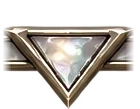
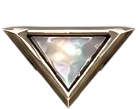
Skins: the moving cards sit in a still view cut to the inside of the frame (nothing shows past the side brackets while rolling); pointers cut by their triangle shape; Void frame redone with a channel where dark matter flows

Changed region(s): [[0.7143, 0.2477, 0.9714, 0.6606], [0.0, 0.2477, 0.2571, 0.6606]]

diff --git a/ui/app.css b/ui/app.css
@@ -419,6 +419,8 @@ input[type=range]::-webkit-slider-thumb { -webkit-appearance: none; width: 18px;
 .strip::before, .strip::after { content: ""; position: absolute; top: 0; bottom: 0; width: 180px; z-index: 3; pointer-events: none; }
 .strip::before { left: 0; background: linear-gradient(90deg, rgba(var(--bg0-rgb), .96), transparent); }
 .strip::after { right: 0; background: linear-gradient(270deg, rgba(var(--bg0-rgb), .96), transparent); }
+/* the moving cards sit in a still view: a skin cuts it to the inside of its frame (the cards never show around it) */
+.strip-view, .gs-view { position: absolute; inset: 0; }
 .strip-track { position: absolute; top: 18px; left: 0; display: flex; gap: 12px; will-change: transform; }
 .strip.idle .strip-track { animation: drift 160s linear infinite; }
 .strip.idle .scard { filter: brightness(.5) saturate(.75); }
@@ -2011,9 +2013,9 @@ img.ring-master { box-shadow: 0 0 10px rgba(255, 211, 107, .75); }
   --frame: url("hud/prism_frame.webp"); --frame-glow: url("hud/prism_frame_glow.webp"); --ptr-t: url("hud/prism_ptr_t.webp"); --ptr-t-glow: url("hud/prism_ptr_t_glow.webp"); --ptr-b: url("hud/prism_ptr_b.webp"); --ptr-b-glow: url("hud/prism_ptr_b_glow.webp"); }
 :root[data-roulette="prism"] .gs-strip { --k: 0.235; }
 :root[data-roulette="void"] .strip-hud { display: block; }
-:root[data-roulette="void"] :is(.strip, .gs-strip) { --edge-t: 27; --edge-b: 29; --edge-s: 3; --k: 0.5; --top: 64; --bottom: 66; --left: 90; --right: 85; --pw: 132; --pth: 97; --pbh: 107;
+:root[data-roulette="void"] :is(.strip, .gs-strip) { --edge-t: 43; --edge-b: 45; --edge-s: 5; --k: 0.357; --top: 98; --bottom: 102; --left: 116; --right: 113; --pw: 184; --pth: 134; --pbh: 148;
   --frame: url("hud/void_frame.webp"); --frame-glow: url("hud/void_frame_glow.webp"); --ptr-t: url("hud/void_ptr_t.webp"); --ptr-t-glow: url("hud/void_ptr_t_glow.webp"); --ptr-b: url("hud/void_ptr_b.webp"); --ptr-b-glow: url("hud/void_ptr_b_glow.webp"); }
-:root[data-roulette="void"] .gs-strip { --k: 0.235; }
+:root[data-roulette="void"] .gs-strip { --k: 0.168; }
 :root[data-roulette="gold"] .strip-hud { display: block; }
 :root[data-roulette="gold"] :is(.strip, .gs-strip) { --edge-t: 30; --edge-b: 32; --edge-s: 4; --k: 0.5; --top: 67; --bottom: 69; --left: 90; --right: 89; --pw: 132; --pth: 103; --pbh: 109;
   --frame: url("hud/gold_frame.webp"); --frame-glow: url("hud/gold_frame_glow.webp"); --ptr-t: url("hud/gold_ptr_t.webp"); --ptr-t-glow: url("hud/gold_ptr_t_glow.webp"); --ptr-b: url("hud/gold_ptr_b.webp"); --ptr-b-glow: url("hud/gold_ptr_b_glow.webp"); }
@@ -2025,6 +2027,7 @@ img.ring-master { box-shadow: 0 0 10px rgba(255, 211, 107, .75); }
   padding: var(--et) var(--es) var(--eb); background-clip: content-box; }
 /* nothing of the strip outside the frame: its art, edge shadows and flash stay within the rails */
 :root:is([data-roulette="infernal"], [data-roulette="prism"], [data-roulette="void"], [data-roulette="gold"]) .strip-roll { inset: var(--et) var(--es) var(--eb); overflow: hidden; }
+:root:is([data-roulette="infernal"], [data-roulette="prism"], [data-roulette="void"], [data-roulette="gold"]) :is(.strip-view, .gs-view) { clip-path: inset(var(--et) var(--es) var(--eb)); }
 :root:is([data-roulette="infernal"], [data-roulette="prism"], [data-roulette="void"], [data-roulette="gold"]) :is(.strip, .gs-strip)::before, :root:is([data-roulette="infernal"], [data-roulette="prism"], [data-roulette="void"], [data-roulette="gold"]) :is(.strip, .gs-strip)::after { top: var(--et); bottom: var(--eb); }
 :root:is([data-roulette="infernal"], [data-roulette="prism"], [data-roulette="void"], [data-roulette="gold"]) .strip::before { left: var(--es); }
 :root:is([data-roulette="infernal"], [data-roulette="prism"], [data-roulette="void"], [data-roulette="gold"]) .strip::after { right: var(--es); }

diff --git a/ui/js/roulette.js b/ui/js/roulette.js
@@ -44,7 +44,7 @@ export function renderRoulette(page) {
     <section class="gstrips" id="gstrips" hidden></section>
     <div id="gresult"></div>
     <section class="strip idle" id="strip">
-      <div class="strip-track" id="track"></div>${HUD}
+      <div class="strip-view"><div class="strip-track" id="track"></div></div>${HUD}
       <div class="strip-marker"><i class="top"></i><i class="bot"></i></div>
       <div class="strip-msg"><div><b>${esc(t("LA FAILLE DÉCIDE POUR TOI"))}</b><span>${esc(t("Choisis un rôle ou laisse tout au hasard, puis appuie sur Lancer"))}</span></div></div>
     </section>
@@ -774,7 +774,7 @@ function paintGroupStrips() {
     return `<div class="gs-row idle" data-i="${i}">
       <div class="gs-who"><span class="gs-av">${esc(initial(p))}</span>
         <div class="gs-id"><b>${esc(nameOf(p, gPlayers.indexOf(p)))}</b><span class="gs-role">${roleChip(p)}</span></div></div>
-      <div class="gs-strip"><div class="gs-track">${cards}${cards}</div><i class="gs-mark"></i>${HUD}</div>
+      <div class="gs-strip"><div class="gs-view"><div class="gs-track">${cards}${cards}</div></div><i class="gs-mark"></i>${HUD}</div>
     </div>`;
   }).join("");
 }
